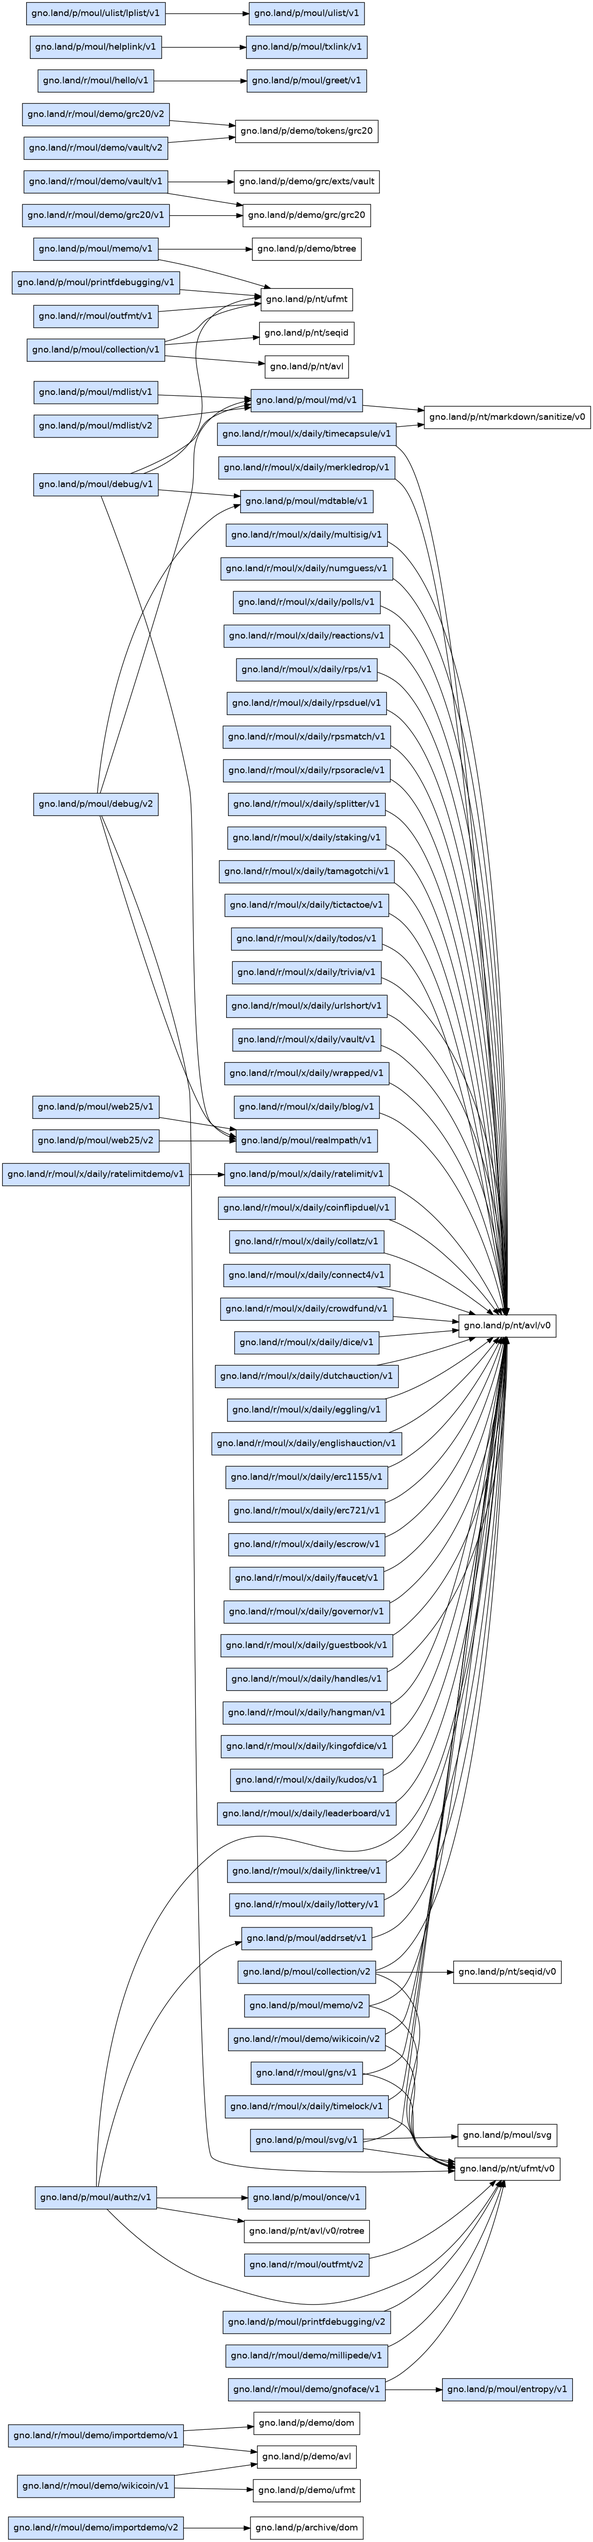
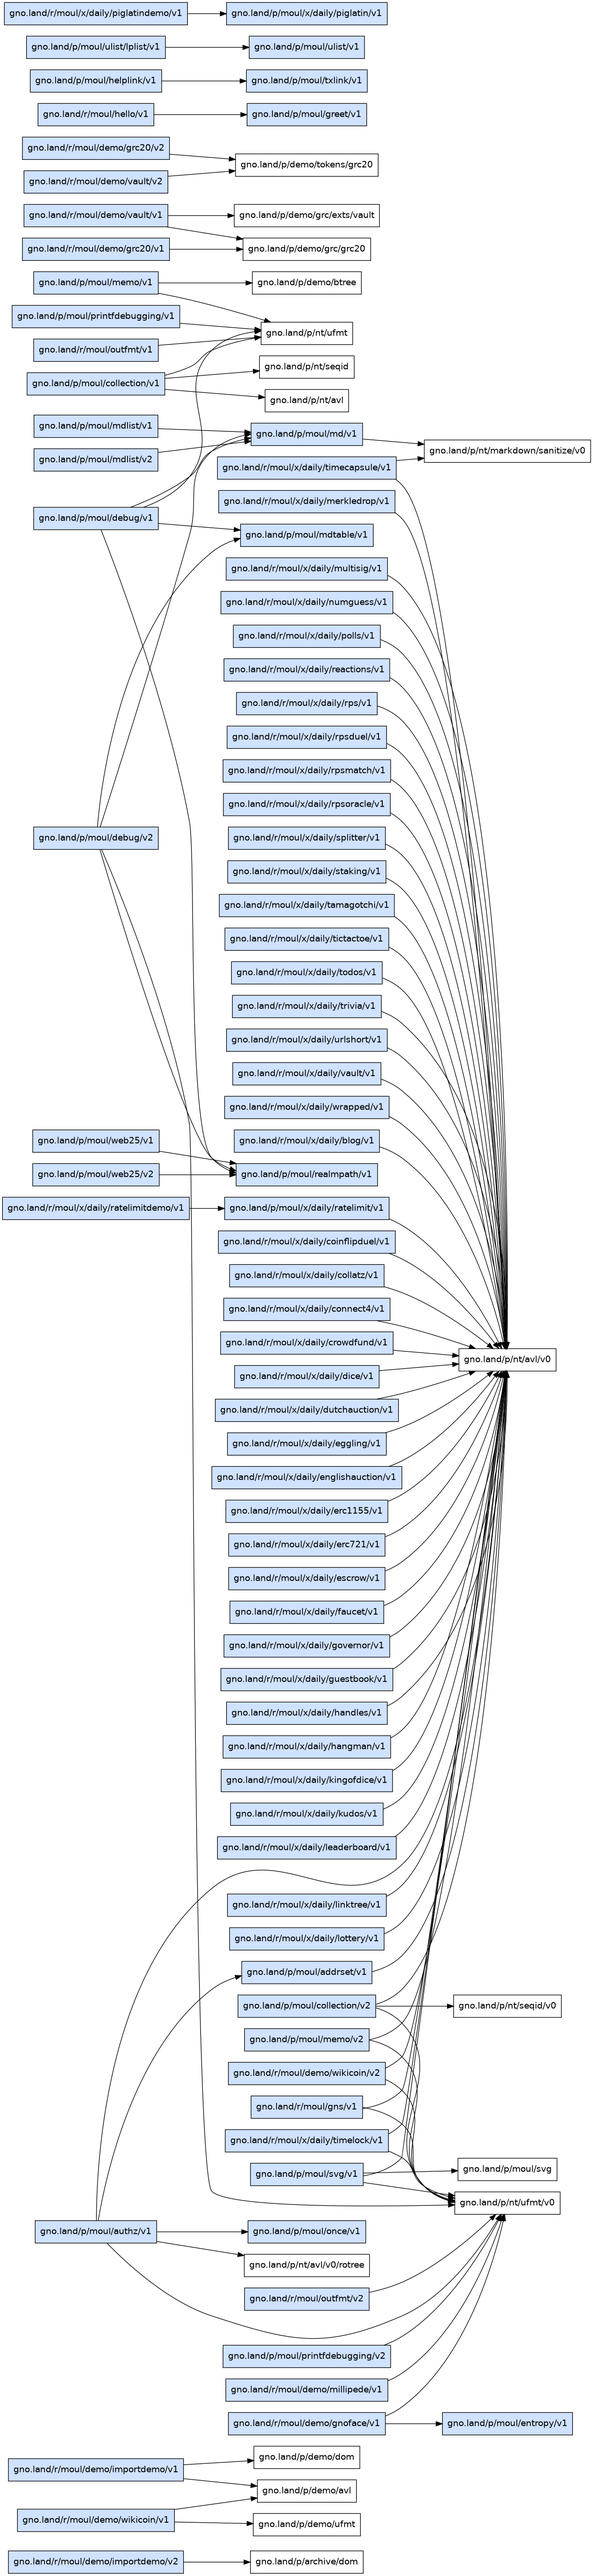
chore: regenerate catalog + READMEs + graphs

diff --git a/README.md b/README.md
@@ -132,6 +132,7 @@ make help        # list all targets
 | [`p/moul/ulist/v1`](p/moul/ulist/v1) 📦 | [✅🗄](https://topaz.testnets.gno.land/p/moul/ulist/v1) | [🗄](https://gno.land/p/moul/ulist) | [🗄](https://staging.gno.land/p/moul/ulist) | [src](https://github.com/gnolang/gno/tree/master/examples/gno.land/p/moul/ulist) | — |
 | [`p/moul/web25/v1`](p/moul/web25/v1) 📦 💤 | — | — | — | — | 1 |
 | [`p/moul/web25/v2`](p/moul/web25/v2) 📦 | [✅](https://topaz.testnets.gno.land/p/moul/web25/v2) | — | — | — | 1 |
+| [`p/moul/x/daily/piglatin/v1`](p/moul/x/daily/piglatin/v1) 📦 | — | — | — | — | — |
 | [`p/moul/x/daily/ratelimit/v1`](p/moul/x/daily/ratelimit/v1) 📦 | — | — | — | — | 1 |
 | [`p/moul/xmath/v1`](p/moul/xmath/v1) 📦 💤 | — | — | — | — | — |
 | [`p/moul/xmath/v2`](p/moul/xmath/v2) 📦 | [✅](https://topaz.testnets.gno.land/p/moul/xmath/v2) | — | — | — | — |
@@ -196,6 +197,7 @@ make help        # list all targets
 | [`r/moul/x/daily/moodstone/v1`](r/moul/x/daily/moodstone/v1) 🏛 | — | — | — | — | — |
 | [`r/moul/x/daily/multisig/v1`](r/moul/x/daily/multisig/v1) 🏛 | — | — | — | — | 1 |
 | [`r/moul/x/daily/numguess/v1`](r/moul/x/daily/numguess/v1) 🏛 | — | — | — | — | 1 |
+| [`r/moul/x/daily/piglatindemo/v1`](r/moul/x/daily/piglatindemo/v1) 🏛 | — | — | — | — | 1 |
 | [`r/moul/x/daily/polls/v1`](r/moul/x/daily/polls/v1) 🏛 | — | — | — | — | 1 |
 | [`r/moul/x/daily/quotes/v1`](r/moul/x/daily/quotes/v1) 🏛 | — | — | — | — | — |
 | [`r/moul/x/daily/ratelimitdemo/v1`](r/moul/x/daily/ratelimitdemo/v1) 🏛 | — | — | — | — | 1 |

diff --git a/r/moul/x/daily/piglatindemo/v1/README.md b/r/moul/x/daily/piglatindemo/v1/README.md
@@ -6,3 +6,17 @@ live sentence translator. It has no translation logic of its own.
 
 Append a sentence to the path to translate it, e.g.
 [`/r/moul/x/daily/piglatindemo/v1:/The quick brown fox`](https://gno.land/r/moul/x/daily/piglatindemo/v1:/The%20quick%20brown%20fox).
+
+<!-- BEGIN GNOCONTRACTS FOOTER (generated by `make readmes`; do not edit below) -->
+
+---
+
+Part of **[moul/gno-contracts](https://github.com/moul/gno-contracts)** — moul's versioned gno.land contracts. See the repository for the full catalog, build/test tooling, and usage.
+
+**Dependency graph:**
+
+![gno.land/r/moul/x/daily/piglatindemo/v1 dependency graph](https://raw.githubusercontent.com/moul/gno-contracts/main/_assets/gno.land/r/moul/x/daily/piglatindemo/v1/deps.png)
+
+> 🧪 **Highly experimental — potentially vibe-coded.** Not audited; may break, change, or be removed at any time. Do not use with anything of value. Full disclaimer: [DISCLAIMER](https://github.com/moul/gno-contracts/blob/main/DISCLAIMER.md).
+
+<!-- END GNOCONTRACTS FOOTER -->

diff --git a/p/moul/x/daily/piglatin/v1/README.md b/p/moul/x/daily/piglatin/v1/README.md
@@ -16,3 +16,13 @@ piglatin.TranslateToken("string")     // "ingstray"
 
 **Live demo:** [`r/moul/x/daily/piglatindemo`](https://github.com/moul/gno-contracts/tree/main/r/moul/x/daily/piglatindemo/v1)
 · render it at [`/r/moul/x/daily/piglatindemo/v1`](https://gno.land/r/moul/x/daily/piglatindemo/v1).
+
+<!-- BEGIN GNOCONTRACTS FOOTER (generated by `make readmes`; do not edit below) -->
+
+---
+
+Part of **[moul/gno-contracts](https://github.com/moul/gno-contracts)** — moul's versioned gno.land contracts. See the repository for the full catalog, build/test tooling, and usage.
+
+> 🧪 **Highly experimental — potentially vibe-coded.** Not audited; may break, change, or be removed at any time. Do not use with anything of value. Full disclaimer: [DISCLAIMER](https://github.com/moul/gno-contracts/blob/main/DISCLAIMER.md).
+
+<!-- END GNOCONTRACTS FOOTER -->
